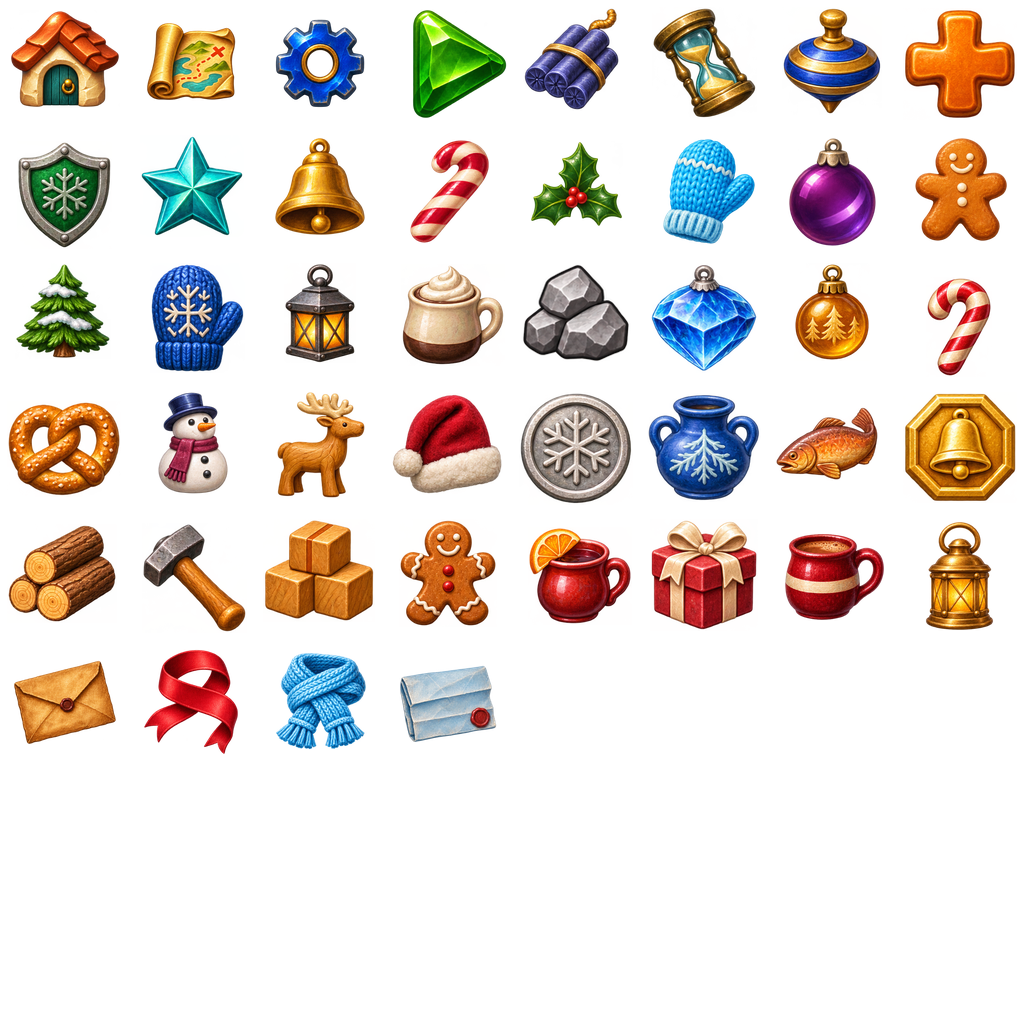
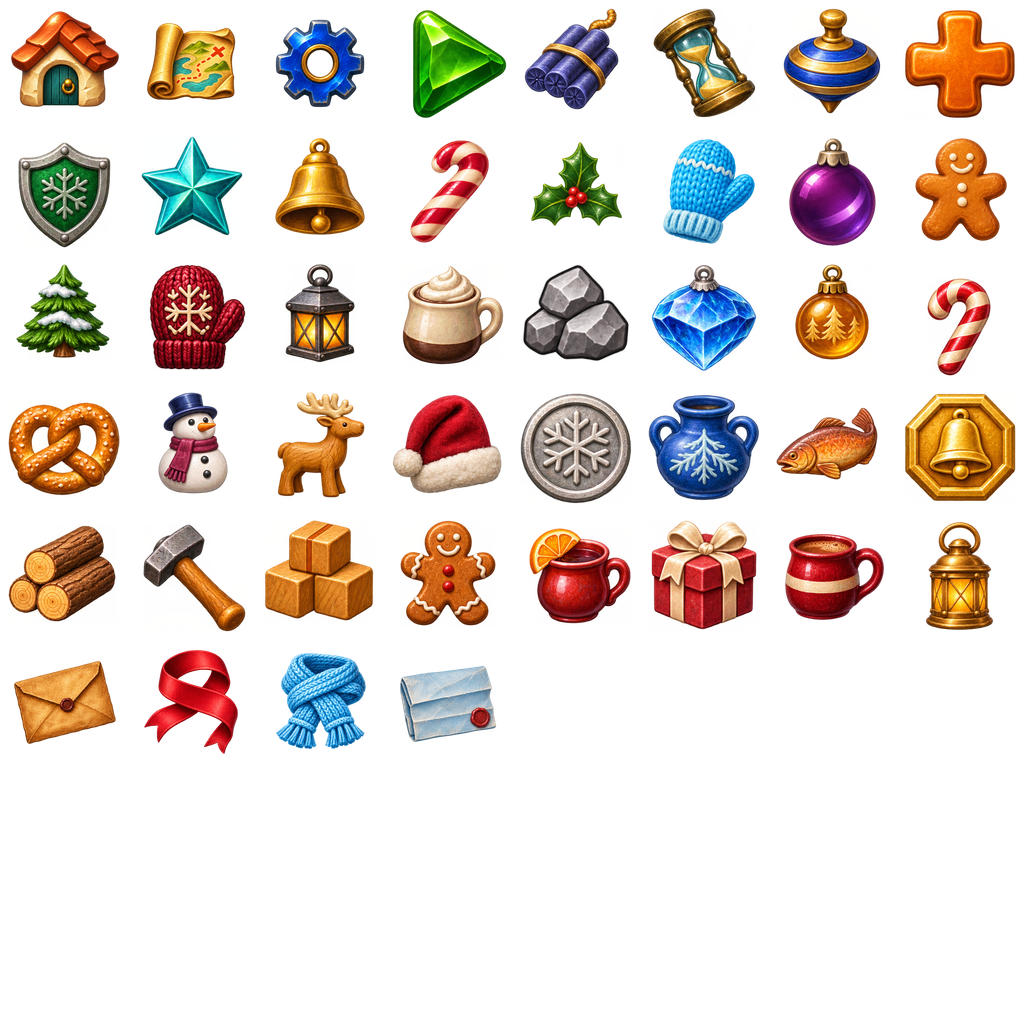
Paint the Christmas Market mitten cranberry red

Changed region(s): [[0.125, 0.25, 0.25, 0.375]]

diff --git a/docs/cradle-of-rome-reference/gem-correspondence.html b/docs/cradle-of-rome-reference/gem-correspondence.html
@@ -179,7 +179,7 @@
 
   <section id="rome-2">
     <h2>Cradle of Rome 2</h2>
-    <p class="description">The sequel sets the purchase order and resource tiers. Christmas Market opens with a snowy fir, a blue mitten, silver and gold coins, and a red candy cane for score. Mulled wine, gingerbread and cocoa take the cane’s slot in order. Natural pine and slate-gray masonry share the Materials slot. The masonry has the same silhouette as Relic Rush’s cut stone.</p>
+    <p class="description">The sequel sets the purchase order and resource tiers. Christmas Market opens with a snowy fir, a cranberry mitten, silver and gold coins, and an ivory-striped candy cane for score. Mulled wine, gingerbread and cocoa take the cane’s slot in order. Natural pine and slate-gray masonry share the Materials slot. The masonry has the same silhouette as Relic Rush’s cut stone.</p>
     <div class="table-wrap">
       <table aria-label="Cradle of Rome 2 regular pieces">
         <thead><tr><th scope="col">Cradle of Rome 2</th><th scope="col">Relic Rush</th><th scope="col">Christmas Market</th><th scope="col">Relic Rush mapping</th></tr></thead>
@@ -193,7 +193,7 @@
           <tr class="comparison" data-status="same" data-rome-type="2">
             <th scope="row"><div class="tile"><span class="icon rome" style="--col:1;--row:0" aria-hidden="true"></span><div><strong>Flower</strong><small>Score only · #02</small></div></div></th>
             <td><div class="tile"><span class="icon relic" style="--col:4;--row:4" aria-hidden="true"></span><div><strong>Flower</strong><small>Score only · opening</small></div></div></td>
-            <td><div class="tile"><span class="icon market" style="--col:1;--row:0" aria-hidden="true"></span><div><strong>Knitted mitten</strong><small>Royal blue · Score only</small><small>Opening</small></div></div></td>
+            <td><div class="tile"><span class="icon market" style="--col:1;--row:0" aria-hidden="true"></span><div><strong>Knitted mitten</strong><small>Cranberry red · Score only</small><small>Opening</small></div></div></td>
             <td><span class="status same">Same motif</span><p>Both use a flower as a score piece.</p></td>
           </tr>
           <tr class="comparison" data-status="same" data-rome-type="3">
@@ -303,7 +303,7 @@
           <tr class="comparison" data-status="role" data-rome-type="2">
             <th scope="row"><div class="tile"><span class="icon rome" style="--col:1;--row:1" aria-hidden="true"></span><div><strong>Ladybug</strong><small>Score only · #02</small></div></div></th>
             <td><div class="tile"><span class="icon relic" style="--col:4;--row:4" aria-hidden="true"></span><div><strong>Flower</strong><small>Score only · opening</small></div></div></td>
-            <td><div class="tile"><span class="icon market" style="--col:1;--row:0" aria-hidden="true"></span><div><strong>Knitted mitten</strong><small>Royal blue · Score only</small><small>Opening</small></div></div></td>
+            <td><div class="tile"><span class="icon market" style="--col:1;--row:0" aria-hidden="true"></span><div><strong>Knitted mitten</strong><small>Cranberry red · Score only</small><small>Opening</small></div></div></td>
             <td><span class="status role">Role adapted</span><p>The beta’s field file calls it Flower. The sprite is a ladybug.</p></td>
           </tr>
           <tr class="comparison" data-status="same" data-rome-type="3">

diff --git a/games/christmas-market/docs/asset-catalogue.md b/games/christmas-market/docs/asset-catalogue.md
@@ -159,6 +159,11 @@ The [vase and winter catch atlas](../art/market-goods/vase-and-winter-catch.png)
 supplies the three-cracker Firework, broad ice pendant, cobalt vase and smoked trout.
 Its [ImageGen prompt](../art/market-goods/vase-and-winter-catch-prompt.txt)
 records the complete atlas edit. Only those four crops enter the registered sheet.
+The [cranberry mitten atlas](../art/market-goods/cranberry-mitten.png) keeps the
+square atlas layout and reauthors the mitten in cranberry wool with a cream
+snowflake. The [full ImageGen prompt](../art/market-goods/cranberry-mitten-prompt.txt)
+records the edit. The new crop registers into `market-1`.
+[Compare opening boards](market-pieces.md#red-mitten-review).
 The [registration record](../art/market-goods/registration.json) saves each
 source crop, proportional fit, offset and alpha-weighted center in its 128 px
 slot. The crop takes the object's solid bounds with four pixels of edge
@@ -168,7 +173,7 @@ Every center of opacity is within half a pixel of the slot center on both axes.
 | Atlas slot | Piece | Dominant color | Role |
 | ---: | --- | --- | --- |
 | 0 | Snow-dusted fir | Evergreen | Score at the opening. |
-| 1 | Blue mitten | Royal blue | Score until the lumber workshop. |
+| 1 | Knitted mitten | Cranberry red | Opening score piece until the stable. |
 | 2 | Silver snowflake coin | Silver | +3 Tokens. |
 | 3 | Gold bell coin | Gold | +5 Tokens and the Tokens wallet icon. |
 | 4 | Bundled pine | Chestnut brown | +5 Materials from the lumber workshop and the Materials wallet icon. |

diff --git a/games/christmas-market/docs/market-pieces.md b/games/christmas-market/docs/market-pieces.md
@@ -6,8 +6,9 @@ Market. Bellmere uses three wallet slots in save order: **Tokens**, **Treats**
 and **Materials**. Gold bell coins, cocoa and bundled pine identify those
 totals on the board, in town, and in prices and results.
 
-The opening has five kinds: a green snowy fir, a blue mitten, a round silver
-coin, an octagonal gold coin and a red candy cane. Mulled wine takes the candy
+The opening has five kinds: a green snowy fir, a cranberry knitted mitten,
+a round silver coin, an octagonal gold coin and an ivory-striped candy cane.
+The mitten has opaque red wool and a cream snowflake. Mulled wine takes the candy
 cane's place. The bakery's brown gingerbread man and the kiosk's ivory cocoa
 mug follow in the same Treats slot. The stable replaces the mitten with a
 cobalt vase for score. Natural pine takes that slot after the workshop opens. The
@@ -65,3 +66,10 @@ new premium good replaces the previous one in the gold coin slot.
 [Eight bonuses in five states](screenshots/review/rome-coverage/bonus-states.jpg) ·
 [Spent bonus](screenshots/review/winter-stalls/spent.jpg) ·
 [Registration and prompts](asset-catalogue.md#market-goods-and-tools)
+
+## Red mitten review
+
+| Opening board | Before | After |
+| --- | --- | --- |
+| 480 × 900 | [Blue mitten](screenshots/review/red-mitten/opening-480-before.jpg) | [Cranberry mitten](screenshots/review/red-mitten/opening-480.jpg) |
+| 390 × 844 | [Blue mitten](screenshots/review/red-mitten/opening-390-before.jpg) | [Cranberry mitten](screenshots/review/red-mitten/opening-390.jpg) |
